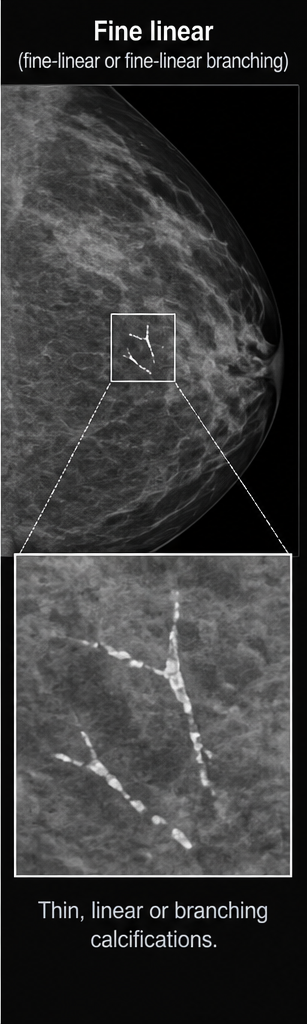
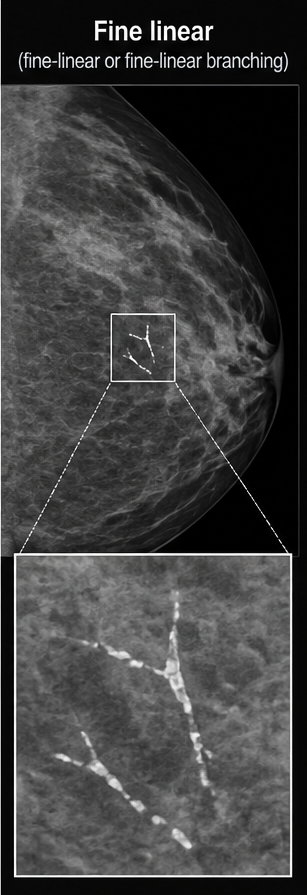
Replace morphology images and align card layout

diff --git a/app/mamma/bildgebung/mammographie/verkalkungen/page.js b/app/mamma/bildgebung/mammographie/verkalkungen/page.js
@@ -14,11 +14,11 @@ import {ALGORITHM,BENIGN,COMBINATIONS,CONTEXT,COPY,DISTRIBUTION,GERMAN_SECTIONS,
 const ID='mammographie-mikrokalk',PATH='/mamma/bildgebung/mammographie/verkalkungen'
 const READ={de:['Als gelesen markieren','Als gelesen markiert','Bitte melde dich an, um deinen Lernfortschritt zu speichern.','Anmelden'],en:['Mark as read','Marked as read','Please sign in to save your learning progress.','Sign in'],fa:['علامتگذاری بهعنوان خواندهشده','بهعنوان خواندهشده علامتگذاری شد','برای ذخیره پیشرفت لطفاً وارد شوید.','ورود']}
 const MORPHOLOGY_IMAGES={
-  round:{src:'/mamma/mammographie/verkalkungen/morphology/round.png',width:309,height:1024,alt:L('Runde, scharf begrenzte Verkalkungen mit Vergrößerung','Round, well-defined calcifications with magnified view','کلسیفیکاسیونهای گرد و با حدود مشخص همراه با نمای بزرگنماییشده')},
-  amorph:{src:'/mamma/mammographie/verkalkungen/morphology/amorphous.png',width:304,height:1024,alt:L('Amorphe, unscharf begrenzte Verkalkungen mit Vergrößerung','Amorphous, indistinct calcifications with magnified view','کلسیفیکاسیونهای آمورف و نامشخص همراه با نمای بزرگنماییشده')},
-  coarse:{src:'/mamma/mammographie/verkalkungen/morphology/coarse-heterogeneous.png',width:305,height:1024,alt:L('Grob heterogene Verkalkungen mit Vergrößerung','Coarse heterogeneous calcifications with magnified view','کلسیفیکاسیونهای درشت ناهمگون همراه با نمای بزرگنماییشده')},
-  pleomorphic:{src:'/mamma/mammographie/verkalkungen/morphology/fine-pleomorphic.png',width:304,height:1024,alt:L('Fein pleomorphe Verkalkungen mit Vergrößerung','Fine pleomorphic calcifications with magnified view','کلسیفیکاسیونهای ظریف پلئومورفیک همراه با نمای بزرگنماییشده')},
-  linear:{src:'/mamma/mammographie/verkalkungen/morphology/fine-linear-branching.png',width:307,height:1024,alt:L('Fein lineare und verzweigte Verkalkungen mit Vergrößerung','Fine linear and branching calcifications with magnified view','کلسیفیکاسیونهای ظریف خطی و شاخهدار همراه با نمای بزرگنماییشده')},
+  round:{src:'/mamma/mammographie/verkalkungen/morphology/round.png',width:309,height:895,alt:L('Runde, scharf begrenzte Verkalkungen mit Vergrößerung','Round, well-defined calcifications with magnified view','کلسیفیکاسیونهای گرد و با حدود مشخص همراه با نمای بزرگنماییشده')},
+  amorph:{src:'/mamma/mammographie/verkalkungen/morphology/amorphous.png',width:304,height:895,alt:L('Amorphe, unscharf begrenzte Verkalkungen mit Vergrößerung','Amorphous, indistinct calcifications with magnified view','کلسیفیکاسیونهای آمورف و نامشخص همراه با نمای بزرگنماییشده')},
+  coarse:{src:'/mamma/mammographie/verkalkungen/morphology/coarse-heterogeneous.png',width:305,height:895,alt:L('Grob heterogene Verkalkungen mit Vergrößerung','Coarse heterogeneous calcifications with magnified view','کلسیفیکاسیونهای درشت ناهمگون همراه با نمای بزرگنماییشده')},
+  pleomorphic:{src:'/mamma/mammographie/verkalkungen/morphology/fine-pleomorphic.png',width:304,height:895,alt:L('Fein pleomorphe Verkalkungen mit Vergrößerung','Fine pleomorphic calcifications with magnified view','کلسیفیکاسیونهای ظریف پلئومورفیک همراه با نمای بزرگنماییشده')},
+  linear:{src:'/mamma/mammographie/verkalkungen/morphology/fine-linear-branching.png',width:307,height:895,alt:L('Fein lineare und verzweigte Verkalkungen mit Vergrößerung','Fine linear and branching calcifications with magnified view','کلسیفیکاسیونهای ظریف خطی و شاخهدار همراه با نمای بزرگنماییشده')},
 }
 function Section({id,number,title,children}){const mobile=useMobileLearningLayout();const[open,setOpen]=useState(true);useEffect(()=>setOpen(!mobile),[mobile,id]);return <section id={id} className={`${base.section} ${basics.section} ${styles.section}`}><button type="button" className={`${base.sectionHeader} ${basics.sectionHeader}`} onClick={()=>setOpen(v=>!v)} aria-expanded={open}><span className={basics.sectionHeading}><small>{number}</small><h2>{title}</h2></span><span className={basics.sectionToggle}>{open?'−':'+'}</span></button>{open&&<div className={`${base.sectionBody} ${basics.sectionBody} ${styles.sectionBody}`}>{children}</div>}</section>}
 function ReadButton({lang,isRead,toggle,authError}){const t=READ[lang]||READ.de;return <div className={base.readControl}><button type="button" className={`${base.readButton} ${basics.readButton} ${isRead?`${base.readButtonActive} ${basics.readButtonActive}`:''}`} onClick={toggle}><span className={`${base.readCheck} ${basics.readCheck}`}>{isRead?'✓':''}</span><span>{isRead?t[1]:t[0]}</span></button>{authError&&<div className={base.readError}><span>{t[2]}</span><Link href="/sign-in">{t[3]}</Link></div>}</div>}
@@ -47,11 +47,11 @@ function GermanContent(){return <>
     <p className={styles.lead}>Die Morphologie beschreibt die Form der einzelnen Kalkpartikel.</p>
     <div className={caseStyles.morphologyArrow}><span>benigne</span><b>suspekt</b></div>
     <div className={`${styles.morphRail} ${caseStyles.morphologyScale}`}>
-      <article className={caseStyles.morphBenign}><span>01</span><h3>Rund</h3><MorphologyImage type="round"/><p>Glatte, runde Verkalkungen.</p></article>
-      <article className={caseStyles.morphBenign}><span>02</span><h3>Amorph</h3><MorphologyImage type="amorph"/><p>Sehr kleine, unscharf definierte Verkalkungen ohne klar erkennbare Form.</p></article>
-      <article className={caseStyles.morphIntermediate}><span>03</span><h3>Grob heterogen</h3><MorphologyImage type="coarse"/><p>Irreguläre Verkalkungen, größer als amorphe, aber weniger typisch als grobschollige benigne Verkalkungen.</p></article>
-      <article className={caseStyles.morphIntermediate}><span>04</span><h3>Fein pleomorph</h3><MorphologyImage type="pleomorphic"/><p>Feine Verkalkungen unterschiedlicher Form und Größe.</p></article>
-      <article className={caseStyles.morphSuspicious}><span>05</span><h3>Fein linear / verzweigt</h3><MorphologyImage type="linear"/><p>Sehr feine, irreguläre lineare oder verzweigte Verkalkungen.</p></article>
+      <article className={caseStyles.morphBenign}><span>01</span><h3>Rund</h3><p>Glatte, runde Verkalkungen.</p><MorphologyImage type="round"/></article>
+      <article className={caseStyles.morphBenign}><span>02</span><h3>Amorph</h3><p>Sehr kleine, unscharf definierte Verkalkungen ohne klar erkennbare Form.</p><MorphologyImage type="amorph"/></article>
+      <article className={caseStyles.morphIntermediate}><span>03</span><h3>Grob heterogen</h3><p>Irreguläre Verkalkungen, größer als amorphe, aber weniger typisch als grobschollige benigne Verkalkungen.</p><MorphologyImage type="coarse"/></article>
+      <article className={caseStyles.morphIntermediate}><span>04</span><h3>Fein pleomorph</h3><p>Feine Verkalkungen unterschiedlicher Form und Größe.</p><MorphologyImage type="pleomorphic"/></article>
+      <article className={caseStyles.morphSuspicious}><span>05</span><h3>Fein linear / verzweigt</h3><p>Sehr feine, irreguläre lineare oder verzweigte Verkalkungen.</p><MorphologyImage type="linear"/></article>
     </div>
     <article className={caseStyles.caseStudy}>
       <header className={caseStyles.caseHeader}><div><small>RADIOPAEDIA-FALL</small><h3>Grob heterogene Verkalkungen</h3></div></header>
@@ -314,7 +314,7 @@ export default function Page(){const{lang}=useLanguage(),tx=v=>pick(v,lang),less
 <Section {...SECTIONS[0]} title={tx(SECTIONS[0].label)}><p className={styles.lead}>{tx(L('Mammographische Verkalkungen sind häufig und überwiegend benign. Entscheidend sind Erscheinungsbild, räumliche Anordnung und klinisch-radiologischer Kontext.','Mammographic calcifications are common and predominantly benign. Appearance, spatial arrangement and clinical-radiologic context are decisive.','کلسیفیکاسیون ماموگرافیک شایع و عمدتاً خوشخیم است. ظاهر، آرایش فضایی و زمینه بالینی–رادیولوژیک تعیینکنندهاند.'))}</p><div className={styles.equation}><strong>{tx(L('Morphologie','Morphology','مورفولوژی'))}</strong><span>×</span><strong>{tx(L('Verteilung','Distribution','توزیع'))}</strong><span>+</span><strong>{tx(L('Verlauf · Ausdehnung · Kontext','Evolution · extent · context','روند · وسعت · زمینه'))}</strong></div><div className={styles.rule}><strong>{tx(L('Merke','Remember','نکته'))}</strong><p>{tx(L('Die Größe allein unterscheidet Mikroverkalkungen nicht sicher in benign und maligne.','Size alone does not reliably distinguish benign from malignant calcifications.','اندازه بهتنهایی کلسیفیکاسیون خوشخیم را از بدخیم جدا نمیکند.'))}</p></div></Section>
 <Section {...SECTIONS[1]} title={tx(SECTIONS[1].label)}><div className={styles.techSplit}><article><small>2D / MAG</small><h3>{tx(L('Detailauflösung','Detail resolution','تفکیک جزئیات'))}</h3><p>{tx(L('Gezielte Vergrößerungsaufnahmen verbessern die Beurteilung von Form, Anzahl und Ausdehnung und schaffen eine Vergleichsbasis.','Targeted magnification views improve assessment of shape, number and extent and provide a comparison baseline.','نماهای بزرگنمایی هدفمند ارزیابی شکل، تعداد و وسعت را بهتر کرده و پایه مقایسه میسازند.'))}</p></article><article><small>DBT</small><h3>{tx(L('Räumlicher Kontext','Spatial context','زمینه فضایی'))}</h3><p>{tx(L('DBT-Schichten bestätigen und lokalisieren Kalk; die hochauflösende Detailanalyse erfolgt bei Bedarf in 2D-Vergrößerung.','DBT slices confirm and localise calcifications; high-resolution analysis uses 2D magnification when needed.','برشهای DBT کلسیفیکاسیون را تأیید و مکانیابی میکنند؛ تحلیل با وضوح بالا در صورت نیاز با بزرگنمایی دوبعدی انجام میشود.'))}</p></article></div><div className={styles.caution}>{tx(L('Synthetische Rekonstruktion und Artefakte können Verkalkungen verändern oder imitieren – immer in den Quellbildern bestätigen.','Synthetic reconstruction and artefacts may alter or mimic calcifications; always confirm in source images.','بازسازی مصنوعی و آرتیفکت میتوانند کلسیفیکاسیون را تغییر دهند یا تقلید کنند؛ همیشه در تصاویر منبع تأیید کنید.'))}</div></Section>
 <Section {...SECTIONS[2]} title={tx(SECTIONS[2].label)}><div className={styles.benignList}>{BENIGN.map(([code,title,text])=><article key={code}><span>{code}</span><div><h3>{tx(title)}</h3><p>{tx(text)}</p></div></article>)}</div></Section>
-<Section {...SECTIONS[3]} title={tx(SECTIONS[3].label)}><div className={styles.riskArrow}>{tx(L('steigende Suspektheit','increasing suspicion','افزایش میزان شک'))} →</div><div className={`${styles.morphRail} ${caseStyles.morphologyScale}`}>{MORPH.map((x,i)=><article key={x.key}><span>{String(i+1).padStart(2,'0')}</span><h3>{tx(x.title)}</h3><MorphologyImage type={x.key} lang={lang}/><small>{tx(x.risk)}</small><p>{tx(x.text)}</p></article>)}</div></Section>
+<Section {...SECTIONS[3]} title={tx(SECTIONS[3].label)}><div className={styles.riskArrow}>{tx(L('steigende Suspektheit','increasing suspicion','افزایش میزان شک'))} →</div><div className={`${styles.morphRail} ${caseStyles.morphologyScale}`}>{MORPH.map((x,i)=><article key={x.key}><span>{String(i+1).padStart(2,'0')}</span><h3>{tx(x.title)}</h3><small>{tx(x.risk)}</small><p>{tx(x.text)}</p><MorphologyImage type={x.key} lang={lang}/></article>)}</div></Section>
 <Section {...SECTIONS[4]} title={tx(SECTIONS[4].label)}><div className={styles.distribution}>{DISTRIBUTION.map((x,i)=><article key={x.key}><span>{String(i+1).padStart(2,'0')}</span><strong>{tx(x.title)}</strong><p>{tx(x.text)}</p></article>)}</div><div className={styles.rule}><strong>{tx(L('Duktales Muster','Ductal pattern','الگوی داکتال'))}</strong><p>{tx(L('Linear und segmental sind besonders relevant, weil sie einem Gangsystem folgen können.','Linear and segmental patterns matter because they may follow a ductal system.','الگوهای خطی و سگمنتال مهماند، زیرا ممکن است مسیر سیستم مجرایی را دنبال کنند.'))}</p></div></Section>
 <Section {...SECTIONS[5]} title={tx(SECTIONS[5].label)}><div className={styles.comboRows}>{COMBINATIONS.map(([a,b,c,tone],i)=><article className={styles[tone]} key={i}><strong>{tx(a)}</strong><span>+</span><strong>{tx(b)}</strong><span>→</span><b>{tx(c)}</b></article>)}</div><RiskLab lang={lang}/></Section>
 <Section {...SECTIONS[6]} title={tx(SECTIONS[6].label)}><div className={styles.context}>{CONTEXT.map((x,i)=><article key={i}><span>0{i+1}</span><h3>{tx(x.title)}</h3><p>{tx(x.text)}</p></article>)}</div><div className={styles.caution}>{tx(L('Eine assoziierte Mass oder Architekturstörung kann auf eine invasive Komponente hinweisen.','An associated mass or architectural distortion may indicate an invasive component.','توده یا دیستورشن معماری همراه میتواند نشاندهنده جزء مهاجم باشد.'))}</div></Section>

diff --git a/app/mamma/bildgebung/mammographie/verkalkungen/case.module.css b/app/mamma/bildgebung/mammographie/verkalkungen/case.module.css
@@ -400,6 +400,9 @@
   display: grid;
   overflow: hidden;
   width: 100%;
+  aspect-ratio: 304 / 895;
+  flex: 0 0 auto;
+  margin-top: 16px;
   place-items: center;
   border: 1px solid rgba(148, 163, 184, 0.3);
   border-radius: 10px;
@@ -409,7 +412,8 @@
 .morphologyIllustration img {
   display: block;
   width: 100%;
-  height: auto;
+  height: 100%;
+  object-fit: contain;
 }
 
 .morphologyScale small {
@@ -417,6 +421,7 @@
 }
 
 .morphologyScale p {
+  flex: 1 1 auto;
   margin-top: 14px;
 }
 
